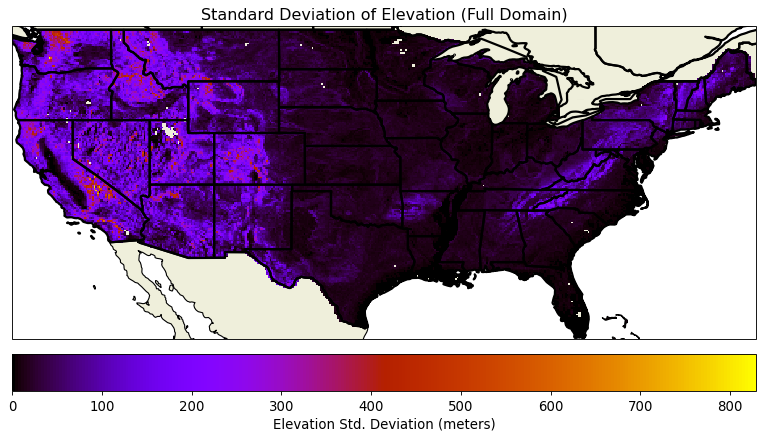
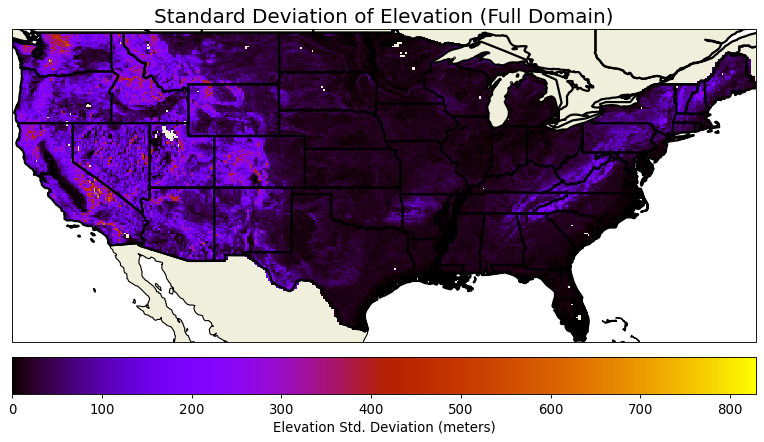
Fixed static plot title/label sizing; push for consistency

diff --git a/scripts/plot_sequence_eval.py b/scripts/plot_sequence_eval.py
@@ -29,17 +29,23 @@ if __name__=="__main__":
             #"lstm-rsm-9","accfnn-rsm-8",#"accrnn-rsm-2",
             #"accfnn-rsm-5", "lstm-20",
             #"acclstm-rsm-4",
+
             #"lstm-rsm-0", "lstm-rsm-2", "lstm-rsm-3", "lstm-rsm-5",
             #"lstm-rsm-6", "lstm-rsm-7", "lstm-rsm-8", "lstm-rsm-9",
             #"lstm-rsm-10", "lstm-rsm-11", "lstm-rsm-12", "lstm-rsm-19",
+
             ## includes increment normalization in loss function
-            "acclstm-rsm-14", "acclstm-rsm-15", "acclstm-rsm-16",
-            "acclstm-rsm-17", "acclstm-rsm-18", "acclstm-rsm-19",
-            "acclstm-rsm-20",
+            #"acclstm-rsm-14", "acclstm-rsm-15", "acclstm-rsm-16",
+            #"acclstm-rsm-17", "acclstm-rsm-18", "acclstm-rsm-19",
+            #"acclstm-rsm-20",
+
             ## includes increment normalization in loss function
             #"lstm-rsm-20", "lstm-rsm-21", "lstm-rsm-22", "lstm-rsm-23",
             #"lstm-rsm-24", "lstm-rsm-25", "lstm-rsm-26", "lstm-rsm-27",
             #"lstm-rsm-28", "lstm-rsm-29", "lstm-rsm-30", "lstm-rsm-31",
+
+            ## RNNs without intermediate layer propagation
+            "accrnn-rsm-9", "accrnn-rsm-11",
             ]
 
     ## evlauated features to include (4th name field)

diff --git a/scripts/plot_static.py b/scripts/plot_static.py
@@ -85,9 +85,9 @@ def plot_soil_veg_matrix(combos, combo_masks, fig_path:Path,
             rotation=45,
             ha='right',
             )
-    plt.title(title, fontsize=16)
-    plt.xlabel("STATSGO Soil Textures", fontsize=14)
-    plt.ylabel("UMD Vegetation Classes", fontsize=14)
+    plt.title(title, fontsize=14)
+    plt.xlabel("STATSGO Soil Textures", fontsize=12)
+    plt.ylabel("UMD Vegetation Classes", fontsize=12)
 
     fig.savefig(fig_path, bbox_inches="tight")
     return matrix
@@ -206,6 +206,8 @@ if __name__=="__main__":
                 "cbar_label":"Elevation (meters)",
                 "cbar_orient":"horizontal",
                 "cbar_pad":.02,
+                "fontsize_title":18,
+                "fontsize_labels":14,
                 },
             fig_path=proj_root_dir.joinpath(
                 "figures/static/static_elev.png"),
@@ -221,6 +223,8 @@ if __name__=="__main__":
                 "cbar_label":"Elevation Std. Deviation (meters)",
                 "cbar_orient":"horizontal",
                 "cbar_pad":.02,
+                "fontsize_title":18,
+                "fontsize_labels":14,
                 },
             fig_path=proj_root_dir.joinpath(
                 "figures/static/static_elev-stdev.png"),

diff --git a/testbed/plotting.py b/testbed/plotting.py
@@ -605,9 +605,9 @@ def plot_geo_scalar(data, latitude, longitude, bounds=None, plot_spec={},
     #ax.add_feature(cfeature.LAKES, linewidth=ps.get("map_linewidth"))
     #ax.add_feature(cfeature.RIVERS, linewidth=ps.get("map_linewidth"))
 
-    ax.set_title(ps.get("title"))
-    ax.set_xlabel(ps.get("xlabel"))
-    ax.set_ylabel(ps.get("ylabel"))
+    ax.set_title(ps.get("title"), fontsize=ps.get("fontsize_title", 18))
+    ax.set_xlabel(ps.get("xlabel"), fontsize=ps.get("fontsize_labels", 14))
+    ax.set_ylabel(ps.get("ylabel"), fontsize=ps.get("fontsize_labels", 14))
 
     if use_contours:
         scat = ax.contourf(longitude, latitude, data, cmap=ps.get("cmap"))
@@ -627,6 +627,8 @@ def plot_geo_scalar(data, latitude, longitude, bounds=None, plot_spec={},
             orientation=ps.get("cbar_orient", "vertical"),
             pad=ps.get("cbar_pad", 0.0),
             )
+    scat.figure.axes[0].tick_params(
+            axis="both", labelsize=ps.get("fontsize_labels",14))
 
     if not fig_path is None:
         fig.set_size_inches(*ps.get("figsize"))
